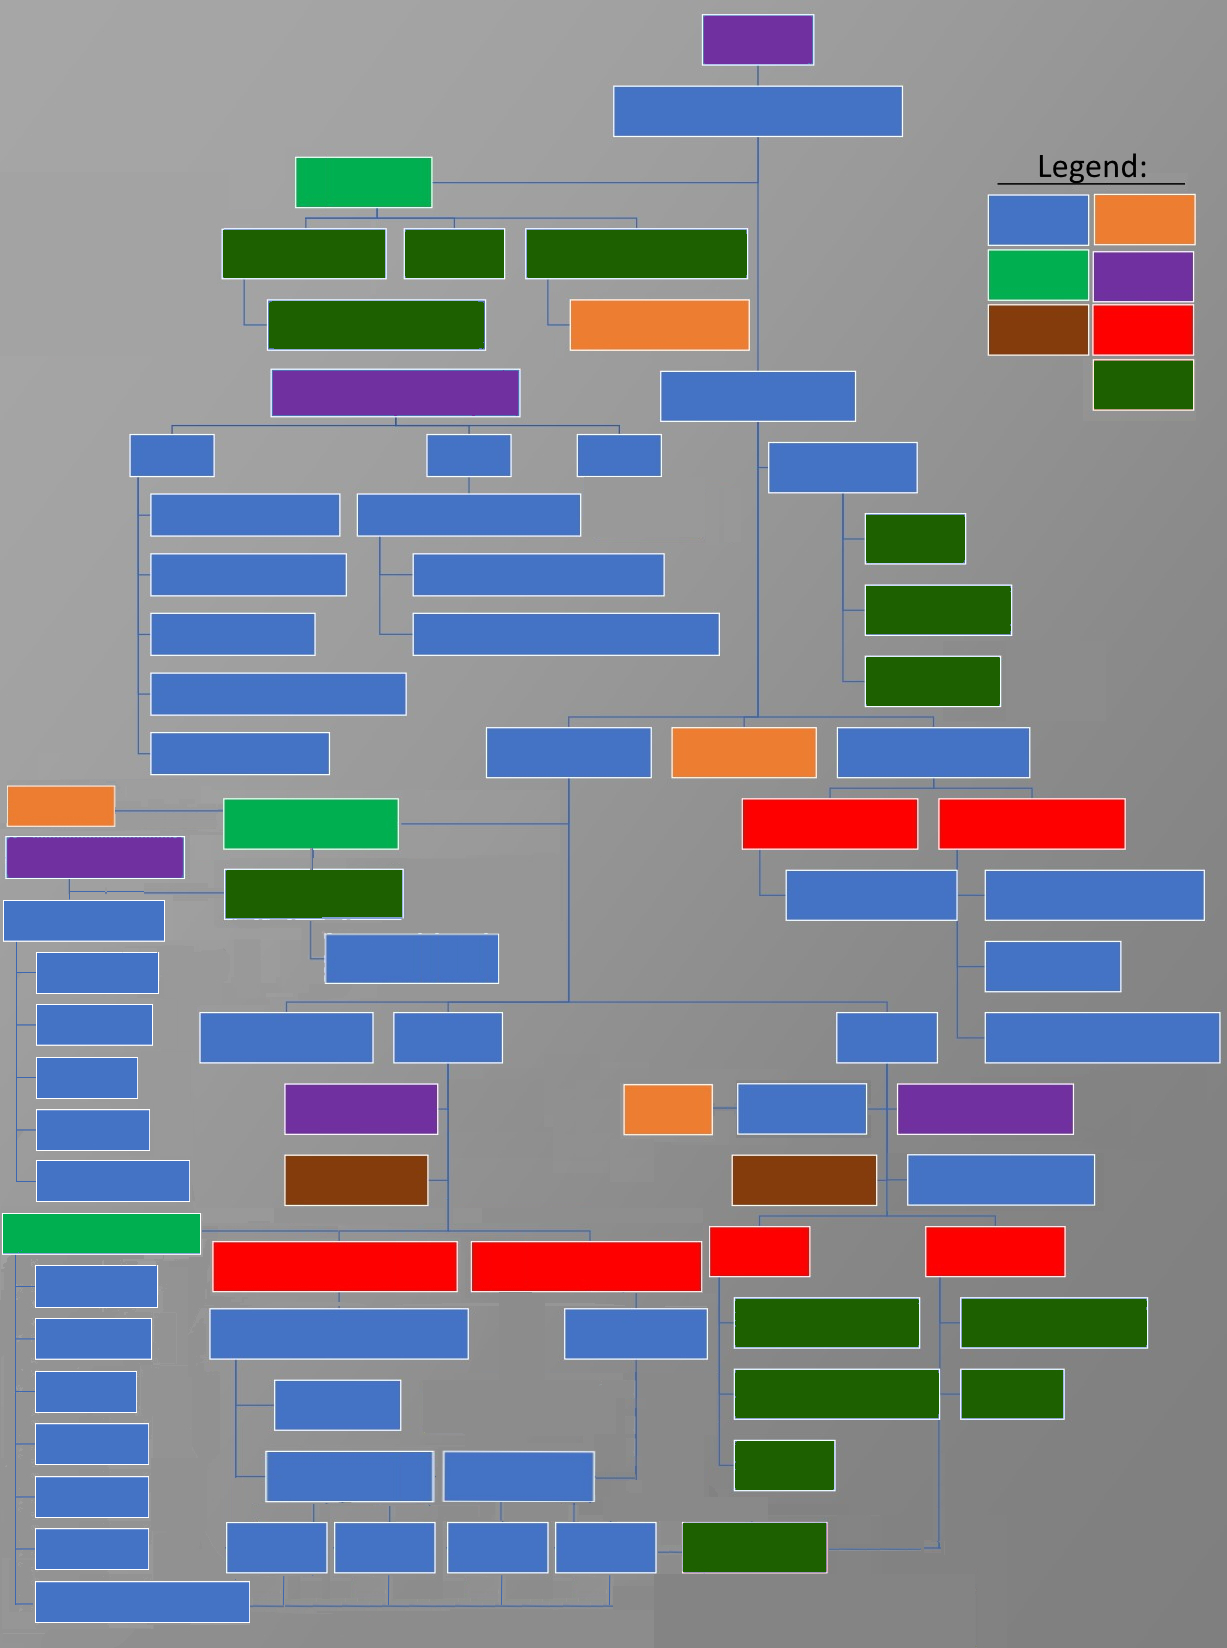
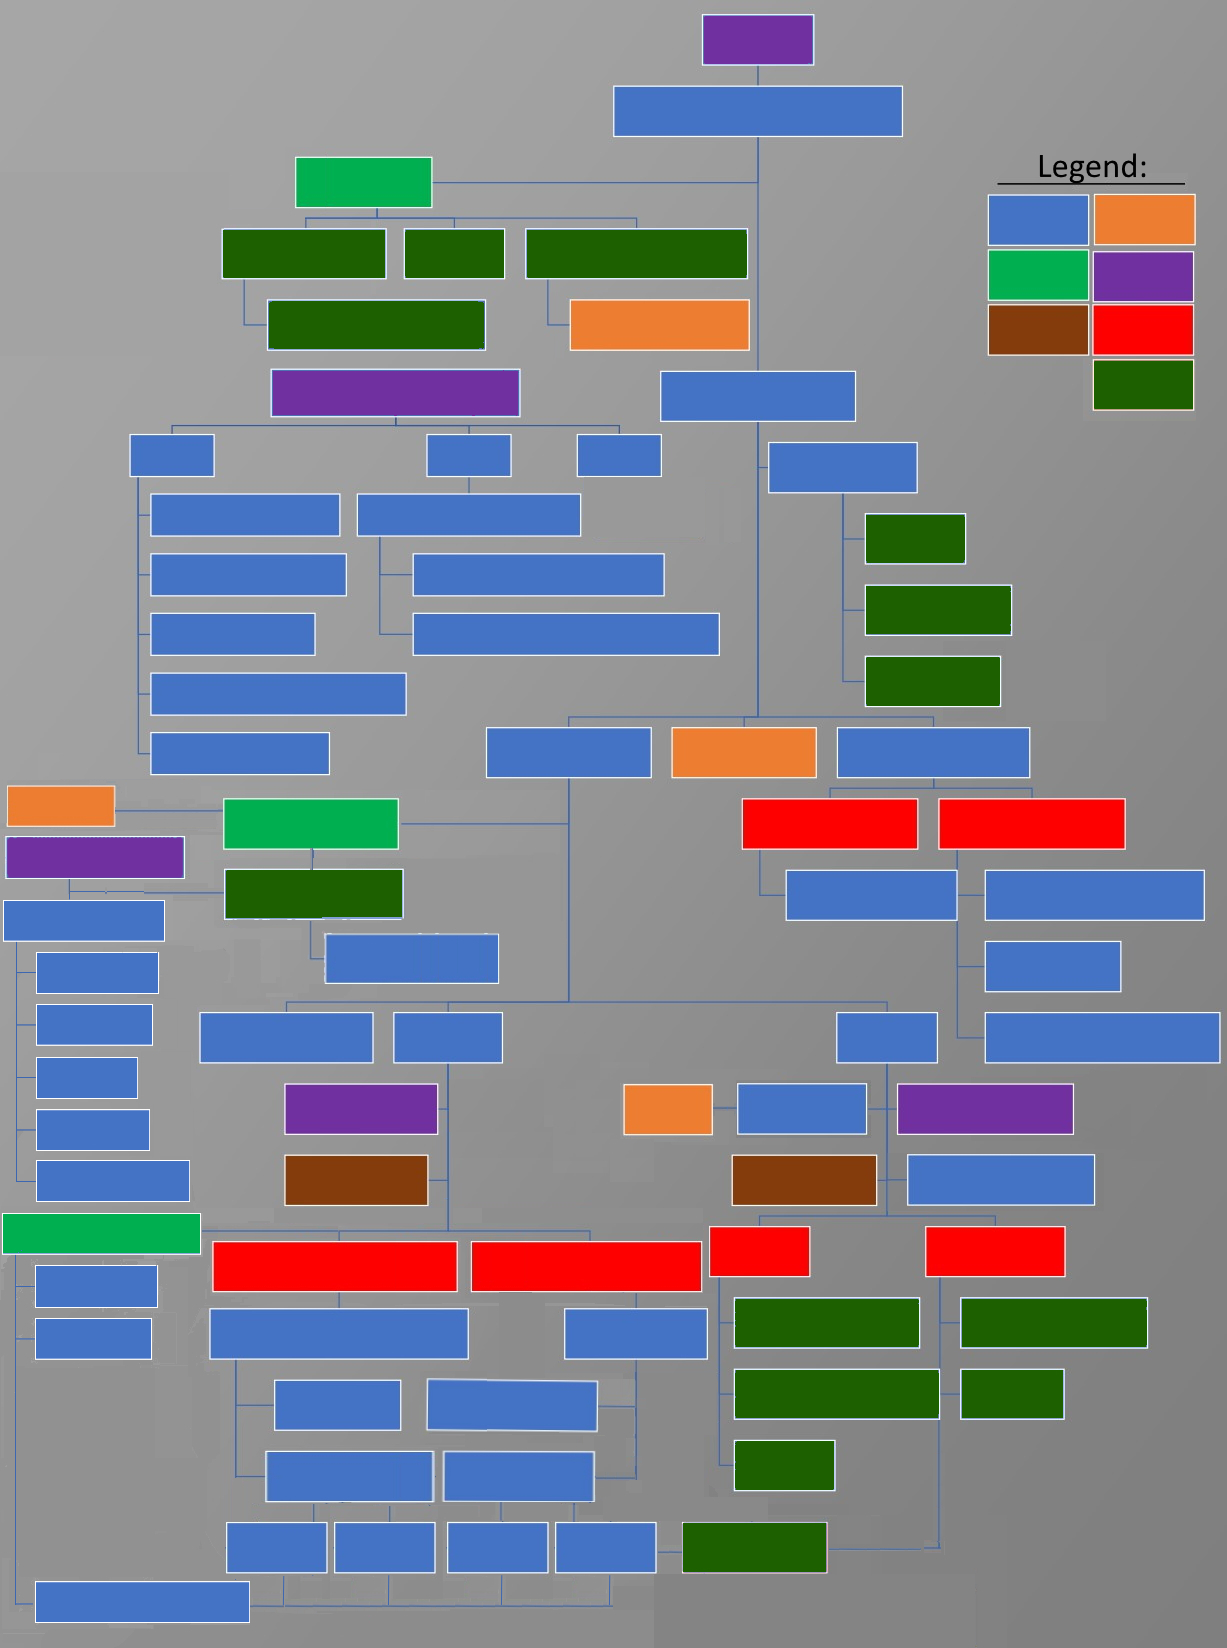
Add files via upload

Changed region(s): [[0.031, 0.8046, 0.1239, 0.9593], [0.3407, 0.8356, 0.4955, 0.8665]]

diff --git a/solution.html b/solution.html
@@ -171,20 +171,21 @@
 								<a style="position:absolute;left:372.68px;top:976.76px" class="tooltip" href="explanation.html#revolutionism">Revolutionary kratocratic<span class="tooltiptext">The best defense is offense.</span></a>
 								<a style="position:absolute;left:573.07px;top:966.76px" class="tooltip" href="explanation.html#safety">Safety<span class="tooltiptext">A focus on stability. Important since accidents can mean the end, and people prefer stability.</span></a>
 								<a style="position:absolute;left:735.96px;top:966.76px" class="tooltip" href="explanation.html#accelerationism">Acceleration<span class="tooltiptext">If the world around us moves fast, we must be faster.</span></a>
-								<a style="position:absolute;left:134.40px;top:1022.58px" class="tooltip" href="explanation.html#">#<span class="tooltiptext">#</span></a>
-								<a style="position:absolute;left:448.34px;top:1028.58px" class="tooltip" href="explanation.html#">Ruthlessness<span class="tooltiptext">#</span></a>
+								<a style="position:absolute;left:170.40px;top:1028.58px" class="tooltip" href="explanation.html#">Unconditional popularity<span class="tooltiptext">Be trusted by the people enough to help power-gaining.</span></a>
+								<a style="position:absolute;left:448.34px;top:1028.58px" class="tooltip" href="explanation.html#">Ruthlessness<span class="tooltiptext">Practice not what hinders you. Be more lax on discontinuing unhelpful practices.</span></a>
 								<a style="position:absolute;left:580.94px;top:1022.58px" class="tooltip" href="explanation.html#ecological-mending">Ecological mending<span class="tooltiptext">Restoring the environment to ensure a stable transition.</span></a>
 								<a style="position:absolute;left:755.50px;top:1022.58px" class="tooltip" href="explanation.html#techno-acceleration">Techno-acceleration<span class="tooltiptext">Technology gives the power to bend reality.</span></a>
-								<a style="position:absolute;left:187.99px;top:1078.38px" class="tooltip" href="explanation.html##">#<span class="tooltiptext">#</span></a>
+								<a style="position:absolute;left:338.99px;top:1086.38px" class="tooltip" href="explanation.html#">Relevant loyalism<span class="tooltiptext">The highest power-holders are aligned to allow achieving of the goal, while lower power-holders can be indirect practitioners.</span></a>
+								<a style="position:absolute;left:220.99px;top:1086.38px" class="tooltip" href="explanation.html#">Good image<span class="tooltiptext">Even though the devil is beautiful, people usually don't have time to hear the full story.</span></a>
 								<a style="position:absolute;left:581.66px;top:1078.38px" class="tooltip" href="explanation.html#accidents">Accidents-prevention<span class="tooltiptext">Better safe than sorry, especially when an accident could be the end of mankind.</span></a>
 								<a style="position:absolute;left:756.70px;top:1078.38px" class="tooltip" href="explanation.html#arms-race">Arms-race<span class="tooltiptext">Strike the enemy before they strike you.</span></a>
-								<a style="position:absolute;left:213.22px;top:1140.18px" class="tooltip" href="explanation.html#">"Good" methods<span class="tooltiptext">#</span></a>
-								<a style="position:absolute;left:350.58px;top:1140.18px" class="tooltip" href="explanation.html#">"Bad" methods<span class="tooltiptext">#</span></a>
+								<a style="position:absolute;left:213.22px;top:1140.18px" class="tooltip" href="explanation.html#">"Good" methods<span class="tooltiptext">Power-gaining methods making use of honesty and good reputation.</span></a>
+								<a style="position:absolute;left:350.58px;top:1140.18px" class="tooltip" href="explanation.html#">"Bad" methods<span class="tooltiptext">Power-gaining methods heavily making use of wicked actions.</span></a>
 								<a style="position:absolute;left:583.66px;top:1134.18px" class="tooltip" href="explanation.html#welfare">Welfare<span class="tooltiptext">A world suffering in our hands delegitimizes us.</span></a>
 								<a style="position:absolute;left:183.31px;top:1195.93px" class="tooltip" href="explanation.html#elections">Elections<span class="tooltiptext">Using conventional democratic systems.</span></a>
 								<a style="position:absolute;left:268.31px;top:1195.93px" class="tooltip" href="explanation.html#activism">Activism<span class="tooltiptext">Using resources of the people.</span></a>
-								<a style="position:absolute;left:355.85px;top:1195.93px" class="tooltip" href="explanation.html#">Capitalist<span class="tooltiptext">Gain influence in the resource-delegation system.</span></a>
-								<a style="position:absolute;left:444.85px;top:1195.93px" class="tooltip" href="explanation.html#">Coup<span class="tooltiptext">Gain the means to take over government(s).</span></a>
+								<a style="position:absolute;left:355.85px;top:1195.93px" class="tooltip" href="explanation.html#">Capitalist<span class="tooltiptext">Gain influence in the resource-delegation system. Gaining power over resources cannot officially influence decision-making of other areas. Can be done through wicked actions.</span></a>
+								<a style="position:absolute;left:444.85px;top:1195.93px" class="tooltip" href="explanation.html#">Coup<span class="tooltiptext">Gain the means to take over government(s). Practice this in unpopular governments, like North-Korea.</span></a>
 								<a style="position:absolute;left:538.46px;top:1197.75px" class="tooltip" href="explanation.html#nanite-strike">Nanite-strike<span class="tooltiptext">Use of nanites and other technologies to accomplish a large task, the technology used giving extreme effectiveness.</span></a>
 								<a style="position:absolute;left:189.17px;top:632.02px" class="tooltip" href="explanation.html#effectivism">Situationalism<span class="tooltiptext">Solutions depend on situation.</span></a>
 								<a style="position:absolute;left:184.50px;top:685.62px" class="tooltip" href="explanation.html#aligned-capitalist-system">Aligned capitalist<span class="tooltiptext">Free currency-based power-delegation with an artificial culture as agenda ensured through alignment qualifications. (has uncertainty)</span></a>
@@ -198,12 +199,7 @@
 								<a style="position:absolute;left:37.50px;top:870.62px" class="tooltip" href="explanation.html#">Relevance<span class="tooltiptext">You either bend to reality, or break. Adapting to the environment is how one survives it; reality happening to be an environment.</span></a>
 								<a style="position:absolute;left:37.50px;top:909.62px" class="tooltip" href="explanation.html#">Responsibility<span class="tooltiptext">An irresponsible society gets nowhere.</span></a>
 								<a style="position:absolute;left:7.50px;top:949.62px" class="tooltip" href="explanation.html#">Power-gaining guide<span class="tooltiptext">How one gains the trust of processes (people) in a system.</span></a>
-								<a style="position:absolute;left:31.50px;top:1238.62px" class="tooltip" href="explanation.html#">Societal opportunities<span class="tooltiptext">Make use of opportunities provided by societies.</span></a>
-								<a style="position:absolute;left:31.50px;top:992.62px" class="tooltip" href="explanation.html#">#<span class="tooltiptext">#</span></a>
-								<a style="position:absolute;left:31.50px;top:992.62px" class="tooltip" href="explanation.html#">#<span class="tooltiptext">#</span></a>
-								<a style="position:absolute;left:31.50px;top:992.62px" class="tooltip" href="explanation.html#">#<span class="tooltiptext">#</span></a>
-								<a style="position:absolute;left:31.50px;top:992.62px" class="tooltip" href="explanation.html#">#<span class="tooltiptext">#</span></a>
-								<a style="position:absolute;left:31.50px;top:992.62px" class="tooltip" href="explanation.html#">#<span class="tooltiptext">#</span></a>
+								<a style="position:absolute;left:31.50px;top:1238.62px" class="tooltip" href="explanation.html#">Societal opportunities<span class="tooltiptext">Qualify within systems to be delegated power within them.</span></a>
 								<a style="position:absolute;left:31.50px;top:1032.62px" class="tooltip" href="explanation.html#">Propagation<span class="tooltiptext">Transmit information with the intent of aligning other entities.</span></a>
 								<a style="position:absolute;left:31.50px;top:992.62px" class="tooltip" href="explanation.html#respect">Respect<span class="tooltiptext">Respect is the first step of trust.</span></a>
 							</div>

diff --git a/index.html b/index.html
@@ -40,7 +40,7 @@
 						<div class="inner">
 							<h2>Fate of humanity</h2>
 							<p>Humanity's goals and their methods for achieving them</a></p>
-							<p>Website is still work-in-progress</p>
+							<p>Site is still work-in-progress</p>
 						</div>
 					</section>
 
